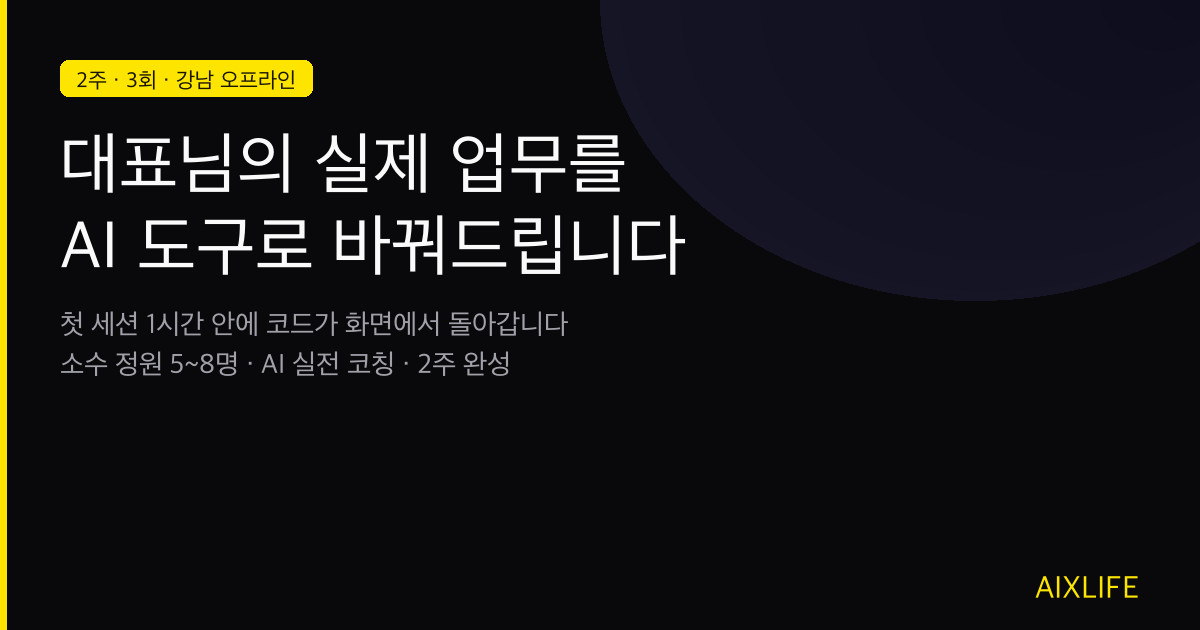
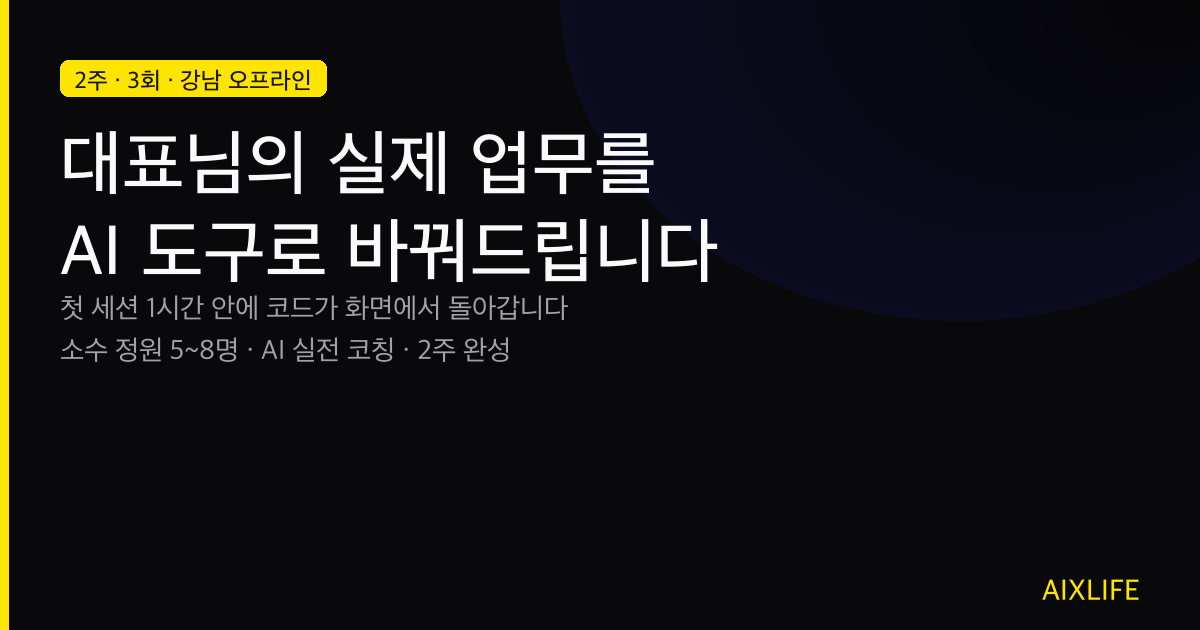
Fix OG images: correct GitHub Pages URL + Korean text rendering
- Corrected og:image URL from Vibe-Code-Community to vibe-code-community-landing
- Regenerated OG PNGs with TTC font index fix (Korean now renders properly)
- Both images verified: white headline text visible on dark background

Changed region(s): [[0.0308, 0.2111, 0.6167, 0.6032], [0.0617, 0.0905, 0.2775, 0.1508], [0.8633, 0.9048, 0.9558, 0.9651]]

diff --git a/weekend.html b/weekend.html
@@ -13,10 +13,10 @@
   <meta property="og:type" content="website">
   <meta property="og:title" content="주말 1Day AI 실전 코칭 — AIXLIFE">
   <meta property="og:description" content="6시간 만에 기획 → 개발 → 배포 완주. 주말 원데이 · 강남 오프라인 · 소수 정원 5~8명">
-  <meta property="og:image" content="https://aixlife.github.io/Vibe-Code-Community/assets/og-oneday.png">
+  <meta property="og:image" content="https://aixlife.github.io/vibe-code-community-landing/assets/og-oneday.png">
   <meta property="og:image:width" content="1200">
   <meta property="og:image:height" content="630">
-  <meta property="og:url" content="https://aixlife.github.io/Vibe-Code-Community/weekend.html">
+  <meta property="og:url" content="https://aixlife.github.io/vibe-code-community-landing/weekend.html">
   <meta name="twitter:card" content="summary_large_image">
 
   <link rel="preconnect" href="https://cdn.jsdelivr.net" crossorigin>

diff --git a/index.html b/index.html
@@ -13,10 +13,10 @@
   <meta property="og:type" content="website">
   <meta property="og:title" content="대표님을 위한 AI 실전 코칭 — AIXLIFE">
   <meta property="og:description" content="첫 세션 1시간 안에 코드가 화면에서 돌아갑니다. 2주 3회 · 강남 오프라인 · 소수 정원 5~8명">
-  <meta property="og:image" content="https://aixlife.github.io/Vibe-Code-Community/assets/og-2week.png">
+  <meta property="og:image" content="https://aixlife.github.io/vibe-code-community-landing/assets/og-2week.png">
   <meta property="og:image:width" content="1200">
   <meta property="og:image:height" content="630">
-  <meta property="og:url" content="https://aixlife.github.io/Vibe-Code-Community/">
+  <meta property="og:url" content="https://aixlife.github.io/vibe-code-community-landing/">
   <meta name="twitter:card" content="summary_large_image">
 
   <link rel="preconnect" href="https://cdn.jsdelivr.net" crossorigin>
